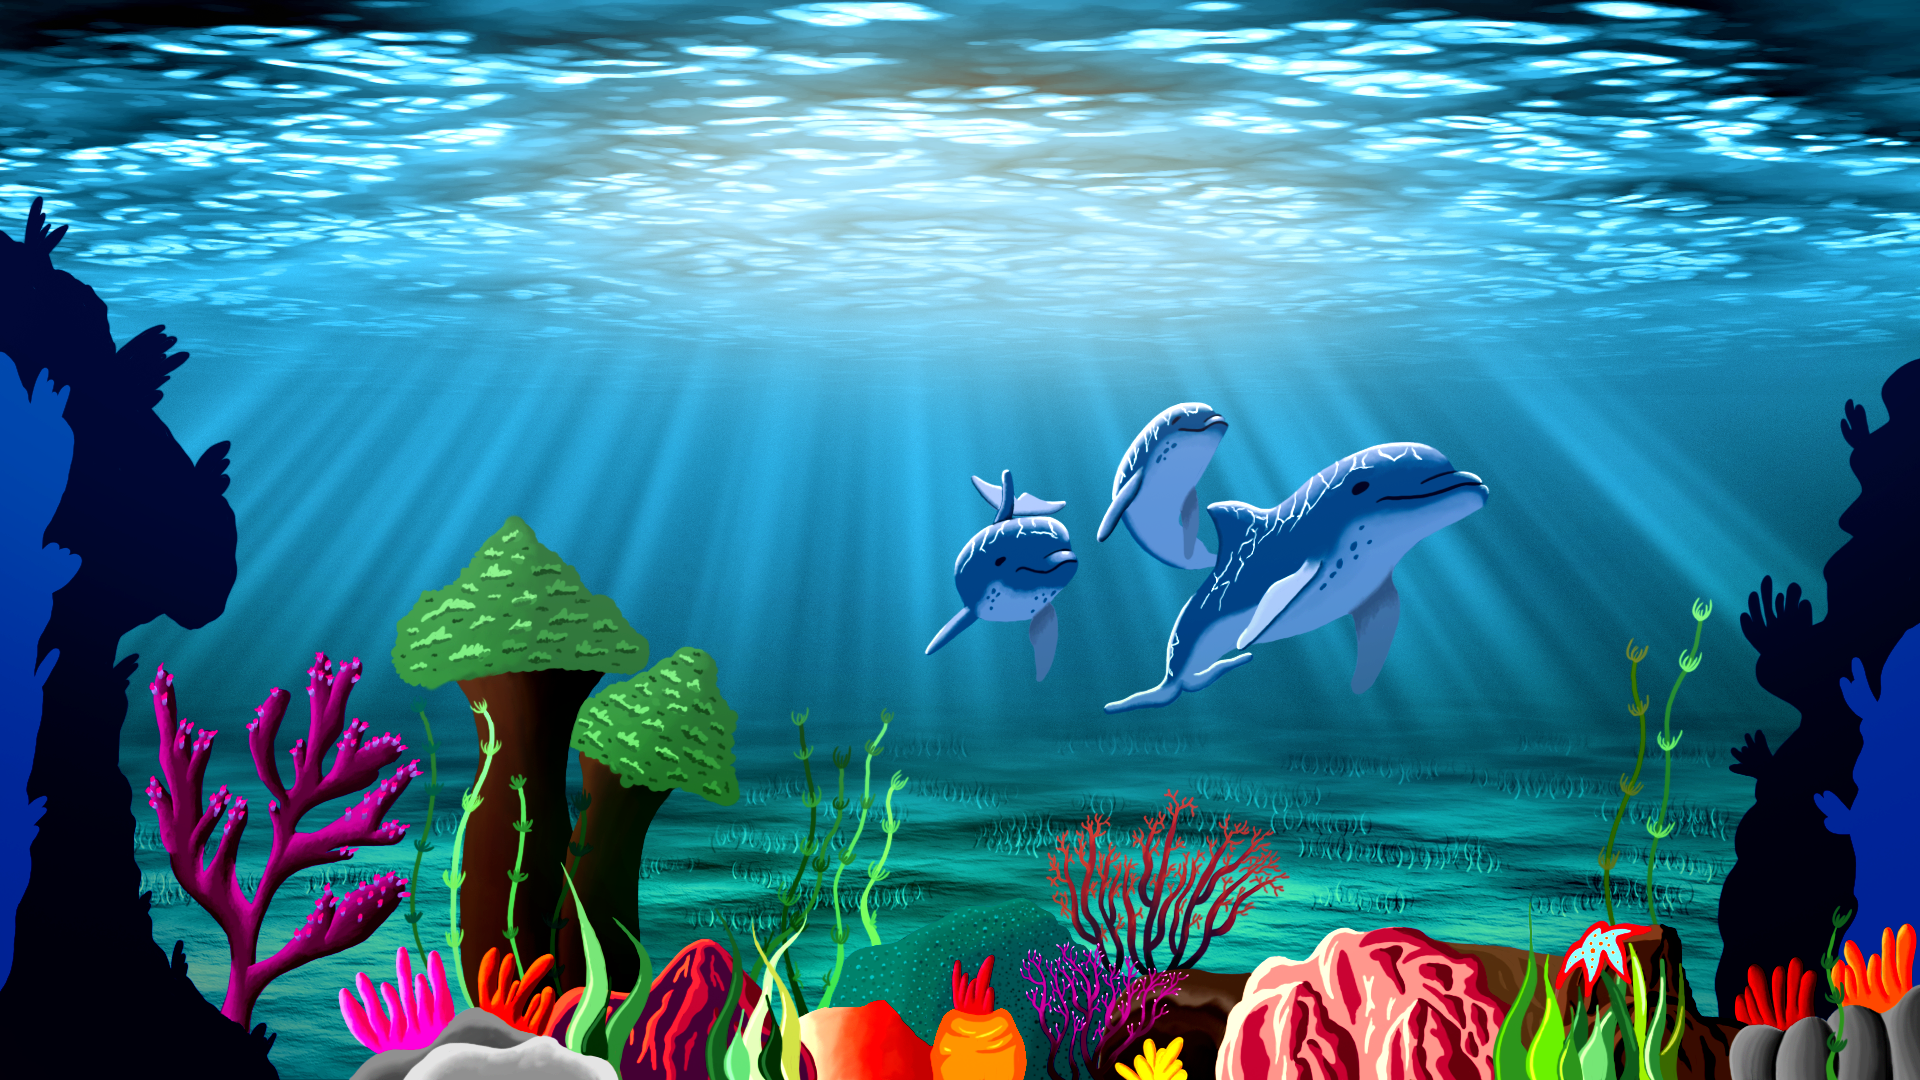
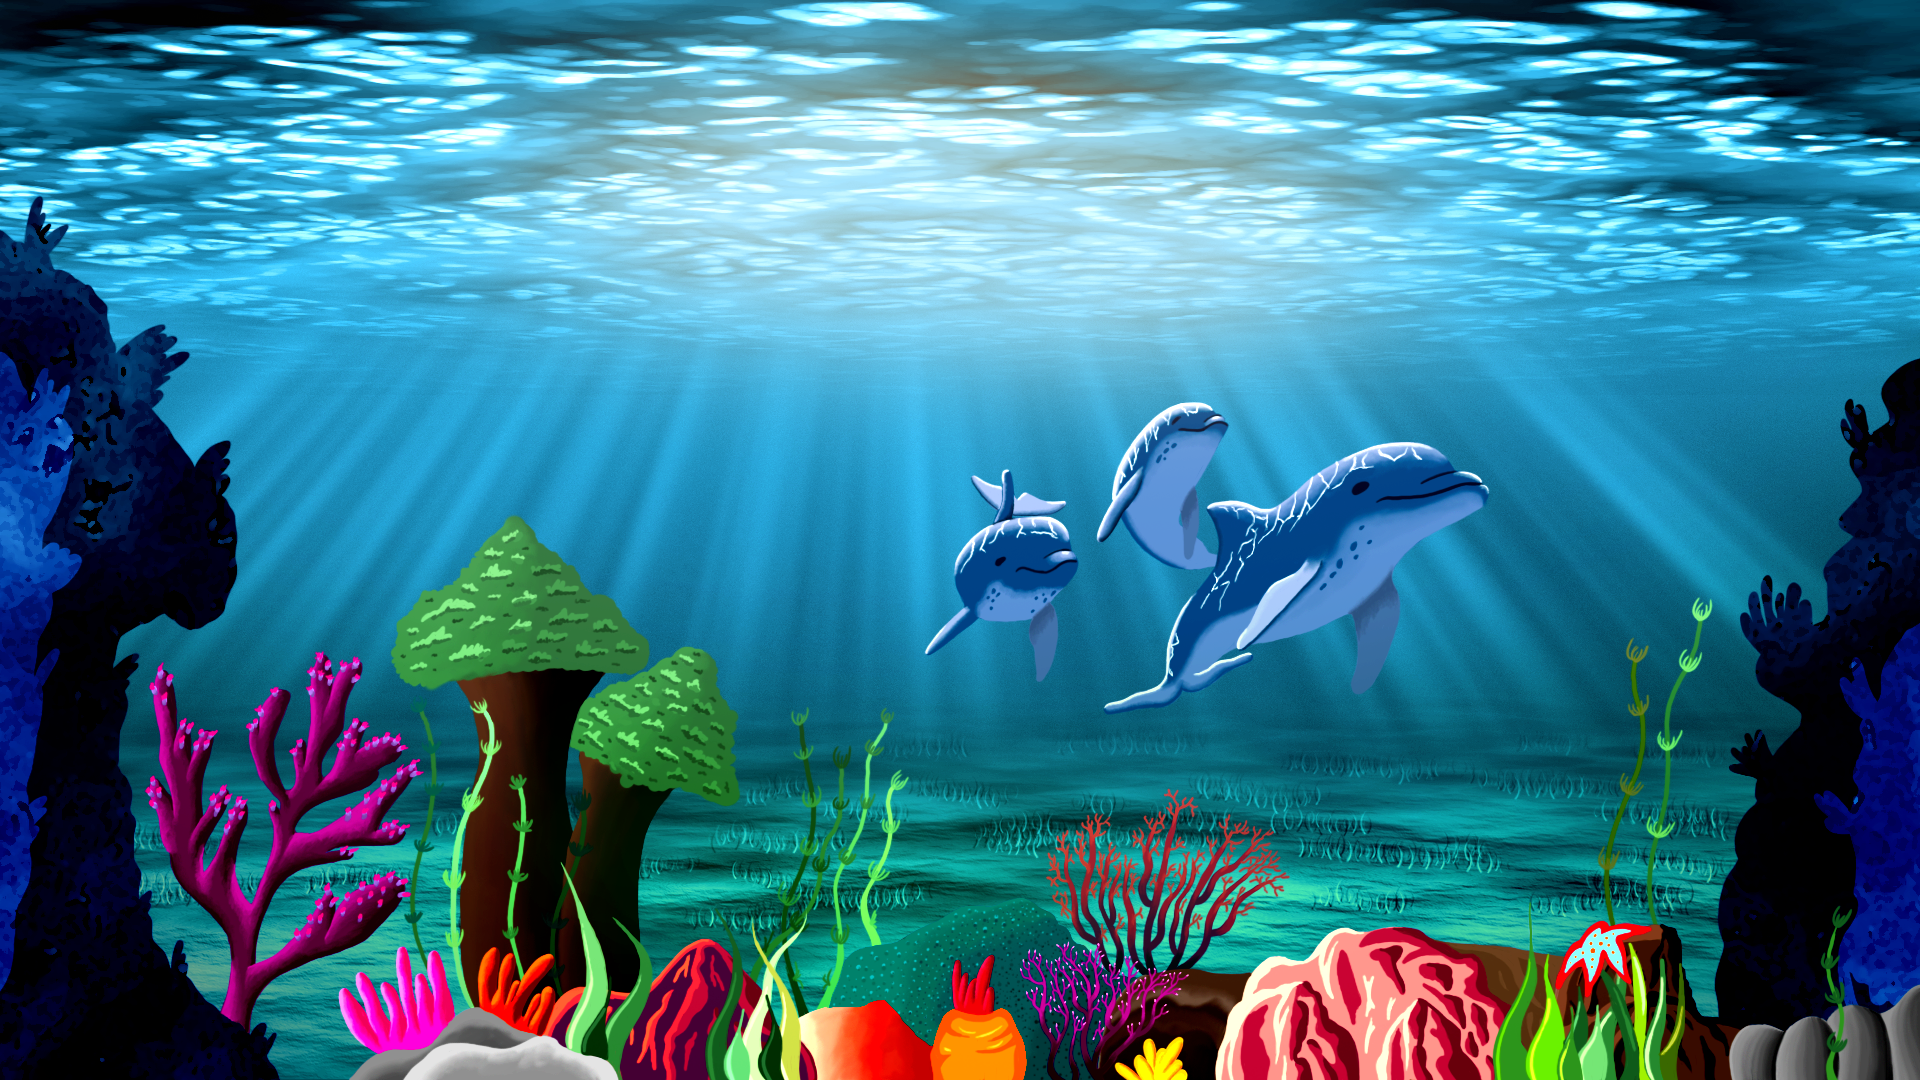
Mobile Modus

diff --git a/index.html b/index.html
@@ -92,8 +92,8 @@
       });
     </script>
 
-    <section id="uebermich" style="background-attachment: fixed;">
-      <img src="img/top.png" class="top" alt="">
+    <section id="uebermich" style="background-attachment: fixed!important;">
+      <img src="img/top2.png" class="top" alt="">
         <div class="container_main column" >
           <div class="opacity">
             <div class="">
@@ -180,7 +180,7 @@
                   <div class="column center_content">
                     <a href="https://relocatebern20.webflow.io/" target="_blank">
                       <figure>
-                        <img class="" src="img/RelocateBern.gif" alt="marika roggli">
+                        <img class="projekt_img" src="img/RelocateBern.gif" alt="marika roggli">
                       </figure>
                       <h3>Relocate Bern</h3>
                         <p>Konzeption & Design von Relocate Bern, Projekt vom Studium</p>
@@ -191,7 +191,7 @@
                   <div class="column center_content">
                     <a target="_blank" href="http://marikaroggli.ch/Praesentation_Studienwoche/index.html">
                       <figure>
-                        <img class="" src="img/Studienwoche2021.png" alt="marika roggli">
+                        <img class="projekt_img" src="img/Studienwoche2021.png" alt="marika roggli">
                       </figure>
                       <h3>Projekt Studienwoche 2021</h3>
                         <p>Für den Arbeitgeber Weltspiegel eine Device übergreifende Applikation ausarbeiten</p>
@@ -204,7 +204,7 @@
                   <div class="column center_content">
                     <a target="_blank" href="http://dalmatiner-ruede-giaro.ch/">
                       <figure>
-                        <img class="" src="img/Giaro.jpg" alt="marika roggli">
+                        <img class="projekt_img" src="img/Giaro.jpg" alt="marika roggli">
                       </figure>
                       <h3>Dalmatinerrüde Giaro</h3>
                         <p>Website mit Deckakte und Ausstellungen für Hündeler - Dalmatinerrüde Giaro</p>
@@ -215,7 +215,7 @@
                   <div class="column center_content">
                     <a href="#">
                       <figure>
-                        <img class="" src="img/Diplomarbeit.png" alt="marika roggli">
+                        <img class="projekt_img" src="img/Diplomarbeit5.png" alt="marika roggli">
                       </figure>
                       <h3>Diplomarbeit</h3>
                         <p>Meine Erkenntnisse zu der Diplomarbeit folgen demnächst.</p>
@@ -224,6 +224,9 @@
                 </div>
               </div>
             </div>
+       <!--    <div>
+              <h2 class="center">Bildergalerie</h2>
+            </div> --> 
           </div>
         </div>
       <img src="img/bottom_darkblue.png" class="bottom" alt="" style="top: 4px; position: relative;">
@@ -343,16 +346,16 @@
 
     <footer>
       <div class="row" id="">
-        <div class="column-third center card">
+        <div class="column-third center footer_card">
           <h3>Illustrations</h3>
             <p>by Marika Roggli</p>
         </div>
-        <div class="column-third center card">
+        <div class="column-third center footer_card">
           <h3>Marika Roggli</h3>
             <p>Interaction Designerin</p>
             <p>Website under construction</p>
         </div>
-          <div class="column-third center card">
+          <div class="column-third center footer_card">
           <h3>Photographie</h3>
             <p>by N.Winkler</p>
         </div>
@@ -366,13 +369,7 @@
       let marika_front = document.getElementById("marika_front");
       let text = document.getElementById("text");
 
-      let rand = document.getElementById("rand");
-      let felsen = document.getElementById("felsen");
-      let boden = document.getElementById("boden");
-      let vordergrund = document.getElementById("vordergrund");
-      let hintergrund = document.getElementById("hintergrund");
-
-      window.addEventListener('scroll', function(){
+      window.addEventListener('scroll', function() {
         var value = window.scrollY;
 
         bg.style.top = value * 0.5 + 'px';
@@ -380,12 +377,6 @@
         stone_left.style.left = -value * 0.6 + 'px';
         marika_front.style.top = value * 1.5 + 'px';
         text.style.bottom = -value * 1 + 'px';
-
-        rand.style.top = -value * 0 + 'px';
-        felsen.style.bottom = -value * 1 + 'px';
-        boden.style.bottom = -value * 0 + 'px';
-        vordergrund.style.top = -value * 0 + 'px';
-        hintergrund.style.top = -value * 0 + 'px';
       })
     </script>
   </body>

diff --git a/css/master.css b/css/master.css
@@ -68,7 +68,7 @@ body {
   bottom: 0;
   width: 100%;
   height: 200px;
-  background: linear-gradient(to top, #114A75, transparent);
+  background: linear-gradient(0deg, rgba(17,74,117,1) 0%, rgba(0,212,255,0) 100%);
   z-index: 1000;
 }
 
@@ -150,7 +150,7 @@ section {
 
 .opacity {
 	background-color: rgba(255, 255, 255, 0.2);
-	padding: 80px;
+	padding: 40px;
 	border-radius: 2%;
 }
 
@@ -199,15 +199,16 @@ section {
 }
 
 .projekte {
-	padding: 6%;
-	width: 500px;
-	height: 550px;
+	padding: 2%;
+  margin: 5%;
+	width: 400px;
+	height: 400px;
 	margin-left: auto;
 	margin-right: auto;
-	transition: all 0.3s cubic-bezier(.25,.8,.25,1);
+	/* transition: all 0.3s cubic-bezier(.25,.8,.25,1); */
 }
 
-.projekte:hover {
+/* .projekte:hover {
   border-top-left-radius: 10px;
   border-bottom-left-radius: 10px;
   animation-name: example;
@@ -215,16 +216,17 @@ section {
   animation-duration: 0.25s;
   
   box-shadow: 0 14px 28px rgba(0,0,0,0.25), 0 10px 10px rgba(0,0,0,0.22);
-}
+} */
 
+/*
 .projekte a {
   margin-bottom: 10px;
-}
+} */
 
 .fähigkeiten {
 	padding: 3%;
-	width: 200px;
-	height: 225px;
+	width: 100%;
+	height: 100%;
 	margin-left: auto;
 	margin-right: auto;
 }
@@ -270,9 +272,88 @@ section {
 	bottom: 10px;
 }
 
+
+@media screen and (max-width: 500px) {
+  #uebermich {
+    background: url(../img/ocean_bild1_414_mobile.png) no-repeat;
+    background-size: cover;
+  }
+
+  .img-small {
+    width: 80%;
+  }
+
+  .card {
+    padding: 2% 5% 5% 5%;
+    width: 98%!important;
+  }
+
+  .footer_card {
+    padding: 2% 5% 5% 5%;
+    width: 100%;
+  }
+
+  .opacity {
+    padding: 50px;
+    border-radius: 8px;
+  }
+
+  #arbeit {
+    background: url(../img/ocean_bild2_2_414_mobile.png) no-repeat;
+    background-size: cover;
+  }
+
+  #ausbildung {
+    background: url(../img/ocean3_414_mobile.png) no-repeat;
+    background-size: cover;
+  }
+
+  #projekte {
+    background: url("../img/ocean4_2_414_mobile.png") no-repeat;
+    background-size: cover;
+  }
+
+  #fähigkeiten {
+    background: url(../img/ocean5_2_mobile.png) no-repeat;
+    background-size: cover;
+  }
+
+  #text {
+    position: relative;
+    color: #fff;
+    z-index: 1;
+    transform: translateY(-620%);
+    bottom: -930px;
+    padding-left: 15%;
+    padding-right: 15%;
+    text-align: center;
+  }
+  
+  #marika_front {
+    z-index: 4;
+    transform: translateX(0%);
+  }
+
+  .projekte {
+    width: 100%;
+  }
+
+  .projekt_img {
+    max-width: 90%;
+  }
+}
+
+@media screen and (max-width: 601px) {
+  #uebermich {
+    background: url(../img/ocean_bild1_601_tablet.png) no-repeat;
+    background-size: cover;
+  }
+}
+
+/*
 figure {
 	margin-bottom: 7%;
-}
+} */
 
 .img-small {
   width: 50%;
@@ -294,6 +375,11 @@ figure {
 .card {
 	padding: 2% 5% 5% 5%;
 	width: 800px;
+}
+
+.footer_card {
+  padding: 2% 5% 5% 5%;
+  width: 100%;
 }
 
 /* font styles */
